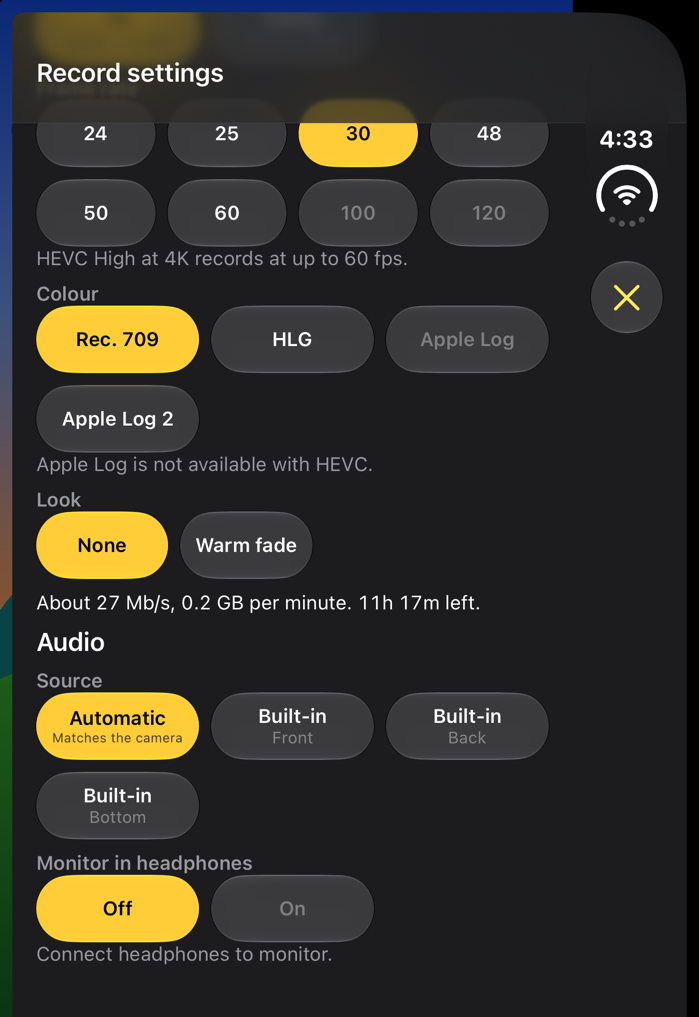
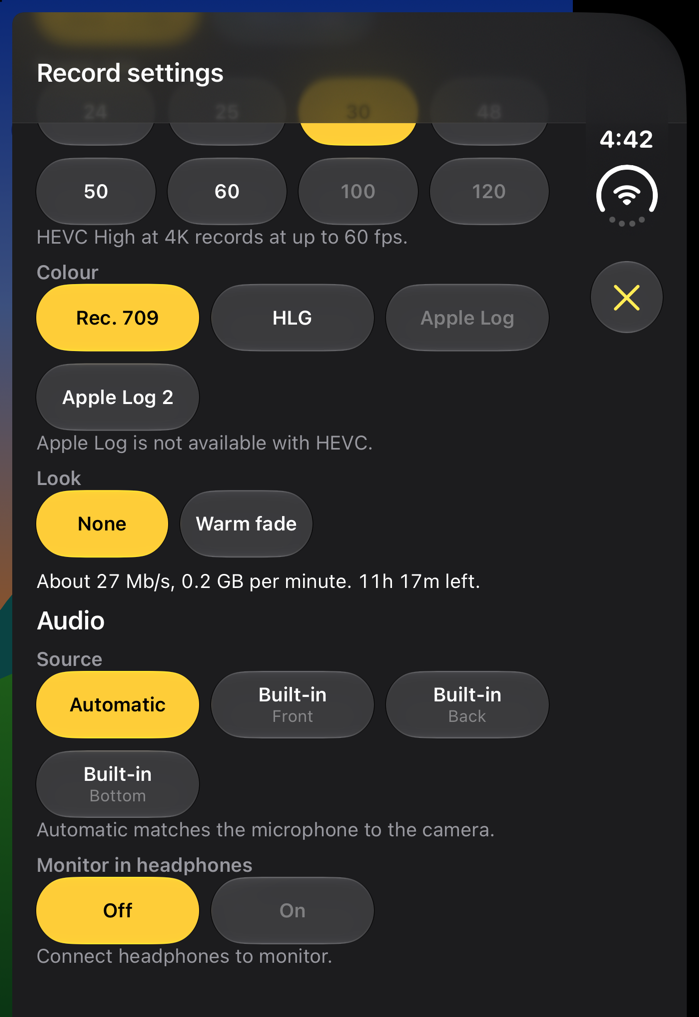
fix(audio): say what Automatic does under the row and name the selected microphone in full

Changed region(s): [[0.03, 0.061, 0.7811, 0.9449], [0.03, 0.0305, 0.3004, 0.0914], [0.8712, 0.1219, 0.9313, 0.1524]]

diff --git a/OpenCamTests/AudioStateTests.swift b/OpenCamTests/AudioStateTests.swift
@@ -6,10 +6,31 @@ import Testing
     @Test func theBuiltInMicrophoneIsOneChipPerDataSource() {
         let state = AudioFixtures.live(AudioFixtures.usbRoute)
         #expect(state.sourceChips.map(\.id) == ["automatic", "mic#1", "mic#2", "mic#3", "usb"])
-        #expect(state.sourceChips.map(\.detail) == ["Matches the camera", "Front", "Back", "Bottom", "USB Audio"])
+        #expect(state.sourceChips.map(\.detail) == [nil, "Front", "Back", "Bottom", "USB Audio"])   // Automatic has no detail line; its reason line says what it does
         #expect(state.sourceChips.map(\.title) == ["Automatic", "Built-in", "Built-in", "Built-in", "USB"])
         #expect(state.selectedSourceID == "automatic")
         #expect(state.sourceChips.allSatisfy { $0.isAvailable })
+    }
+
+    @Test func theSourceReasonSaysWhatAutomaticDoesAndNamesAnExternalMicrophone() {
+        var state = AudioFixtures.live(AudioFixtures.usbRoute)
+        #expect(state.sourceReason == "Automatic matches the microphone to the camera.")
+        state.select(chipID: "mic#2")
+        #expect(state.sourceReason == nil)
+        state.select(chipID: "usb")
+        #expect(state.sourceReason == "Selected: USB Audio.")
+        state.select(chipID: "automatic")
+        #expect(state.sourceReason == "Automatic matches the microphone to the camera.")
+        var headset = AudioFixtures.live(AudioFixtures.wiredHeadphones)
+        headset.select(chipID: "headset")
+        #expect(headset.sourceReason == "Selected: Headset microphone.")
+        #expect([state.sourceReason, headset.sourceReason, AudioState.automaticReason].compactMap { $0 }.allSatisfy { !$0.contains("\u{2014}") })
+        // No access comes first, whatever is selected.
+        state.select(chipID: "usb")
+        state.hasMicrophone = false
+        #expect(state.sourceReason == "No microphone access.")
+        headset.hasMicrophone = false
+        #expect(headset.sourceReason == "No microphone access.")
     }
 
     @Test func portTypesMapToKinds() {
@@ -181,6 +202,9 @@ import Testing
             texts += [state.sourceReason, state.monitorReason].compactMap { $0 }
         }
         collect()
+        state.select(chipID: "mic#1")
+        collect()
+        texts += [AudioState.automaticReason]
         texts += [state.failed(.pinRefused(reason: "x")), state.failed(.monitorRefused(reason: "x"))]
         state.hasMicrophone = false
         collect()

diff --git a/OpenCam/Audio/AudioState.swift b/OpenCam/Audio/AudioState.swift
@@ -7,6 +7,7 @@ nonisolated struct AudioState: Equatable, Sendable {
     static let offID = "off"
     static let onID = "on"
     static let noAccessReason = "No microphone access."
+    static let automaticReason = "Automatic matches the microphone to the camera."
     static let noHeadphonesReason = "Connect headphones to monitor."
     static let bluetoothDelayReason = "Bluetooth headphones add a delay."
     static let microphoneGoneNotice = "Microphone disconnected. Source is Automatic."
@@ -24,7 +25,7 @@ nonisolated struct AudioState: Equatable, Sendable {
 
     var sourceChips: [Chip] {
         let reason = hasMicrophone ? nil : Self.noAccessReason
-        var chips = [Chip(id: Self.automaticID, title: "Automatic", detail: "Matches the camera", isAvailable: hasMicrophone, reason: reason)]
+        var chips = [Chip(id: Self.automaticID, title: "Automatic", detail: nil, isAvailable: hasMicrophone, reason: reason)]
         for input in route.inputs {
             if input.dataSources.isEmpty {
                 chips.append(Chip(id: AudioPin(portUID: input.uid, dataSourceID: nil).chipID, title: input.kind.title, detail: input.name,
@@ -45,7 +46,19 @@ nonisolated struct AudioState: Equatable, Sendable {
         return pinned.chipID
     }
 
-    var sourceReason: String? { hasMicrophone ? nil : Self.noAccessReason }
+    /// No access first; then what Automatic does; then the full name of a selected external port, which its chip may cut off.
+    /// A built-in microphone's chip says everything, so it has no line.
+    var sourceReason: String? {
+        guard hasMicrophone else { return Self.noAccessReason }
+        guard let pinned = selectedPin else { return Self.automaticReason }
+        guard pinned.dataSourceID == nil, let input = route.inputs.first(where: { $0.uid == pinned.portUID }) else { return nil }
+        return "Selected: \(input.name)."
+    }
+
+    private var selectedPin: AudioPin? {
+        guard selectedSourceID != Self.automaticID else { return nil }
+        return pinned
+    }
 
     // MARK: Monitor
 
